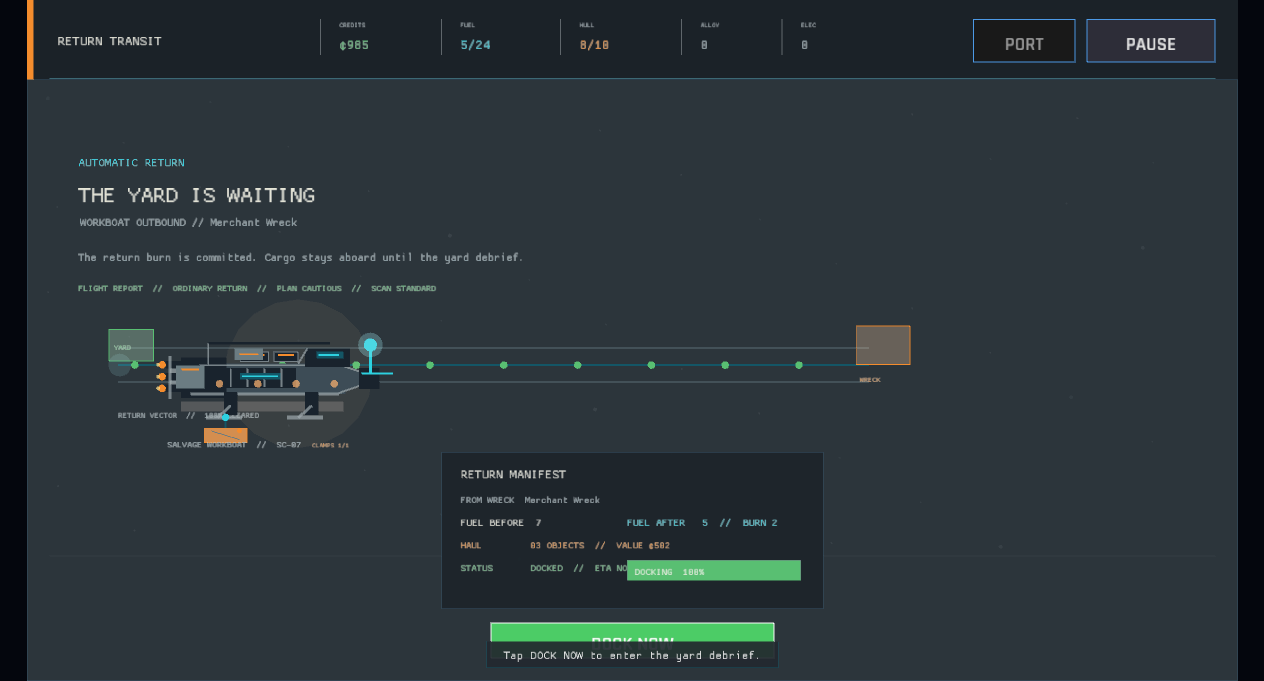
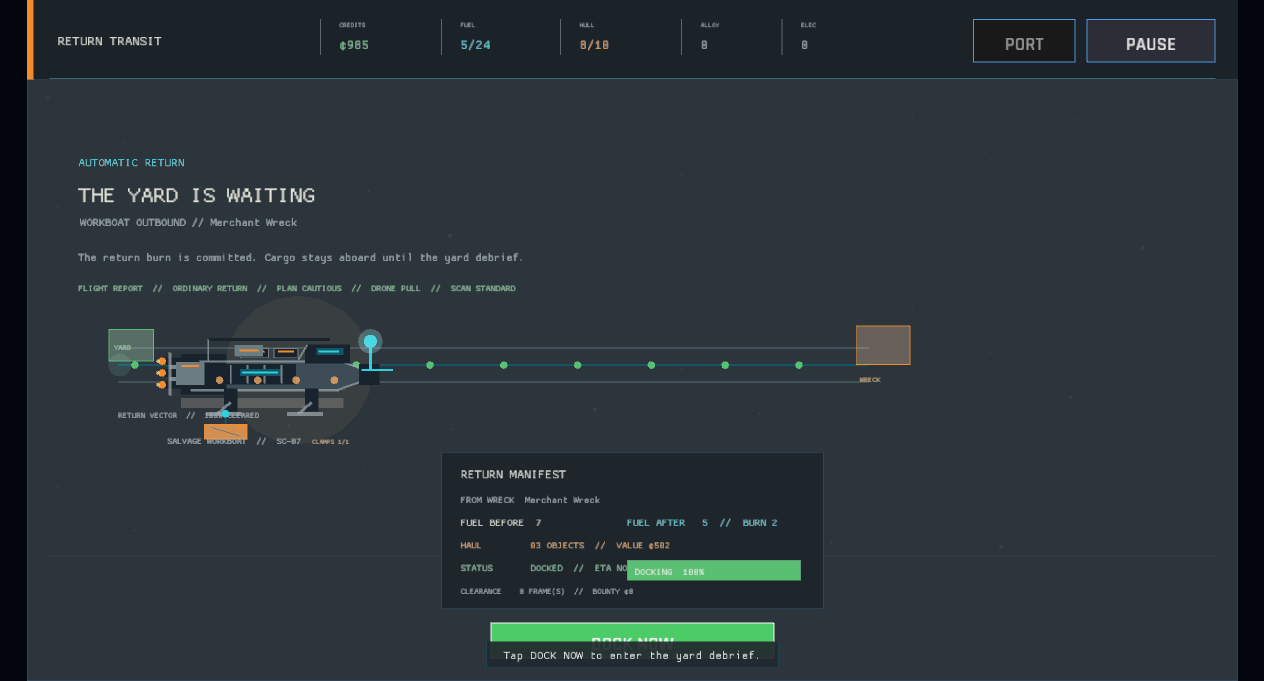
The logbook remembers which ghost-guidance carried each haul home (drone order voyage records)
Completed voyages now retain the selected drone directive alongside the scan, route, and return telemetry. The return report, debrief, and archive expose that order so later runs can be compared by field method as well as haul value.

Changed region(s): [[0.1234, 0.4626, 0.3085, 0.6784], [0.3703, 0.8634, 0.4937, 0.8943], [0.3085, 0.4009, 0.4011, 0.4317]]

diff --git a/src/game/capture.rs b/src/game/capture.rs
@@ -67,6 +67,7 @@ impl Game {
                         contract_completed: true,
                         contract_failed: false,
                         scan_profile: WorkspaceScanProfile::Standard,
+                        drone_directive: crate::state::DroneDirective::PullSupport,
                         condition_after: 74,
                         cleared_sections: Vec::new(),
                         clearance_payout: 0,
@@ -90,6 +91,7 @@ impl Game {
                         contract_completed: false,
                         contract_failed: false,
                         scan_profile: WorkspaceScanProfile::Array,
+                        drone_directive: crate::state::DroneDirective::PullSupport,
                         condition_after: 48,
                         cleared_sections: Vec::new(),
                         clearance_payout: 0,
@@ -113,6 +115,7 @@ impl Game {
                         contract_completed: true,
                         contract_failed: false,
                         scan_profile: WorkspaceScanProfile::Array,
+                        drone_directive: crate::state::DroneDirective::PullSupport,
                         condition_after: 68,
                         cleared_sections: Vec::new(),
                         clearance_payout: 0,
@@ -136,6 +139,7 @@ impl Game {
                         contract_completed: false,
                         contract_failed: true,
                         scan_profile: WorkspaceScanProfile::Standard,
+                        drone_directive: crate::state::DroneDirective::PullSupport,
                         condition_after: 60,
                         cleared_sections: Vec::new(),
                         clearance_payout: 0,
@@ -159,6 +163,7 @@ impl Game {
                         contract_completed: true,
                         contract_failed: false,
                         scan_profile: WorkspaceScanProfile::Array,
+                        drone_directive: crate::state::DroneDirective::PullSupport,
                         condition_after: 42,
                         cleared_sections: Vec::new(),
                         clearance_payout: 0,
@@ -182,6 +187,7 @@ impl Game {
                         contract_completed: false,
                         contract_failed: false,
                         scan_profile: WorkspaceScanProfile::Standard,
+                        drone_directive: crate::state::DroneDirective::PullSupport,
                         condition_after: 51,
                         cleared_sections: Vec::new(),
                         clearance_payout: 0,
@@ -205,6 +211,7 @@ impl Game {
                         contract_completed: true,
                         contract_failed: false,
                         scan_profile: WorkspaceScanProfile::Array,
+                        drone_directive: crate::state::DroneDirective::PullSupport,
                         condition_after: 53,
                         cleared_sections: Vec::new(),
                         clearance_payout: 0,
@@ -291,6 +298,7 @@ impl Game {
                     contract_completed: true,
                     contract_failed: false,
                     scan_profile: WorkspaceScanProfile::Array,
+                    drone_directive: crate::state::DroneDirective::PullSupport,
                     condition_after: 64,
                     cleared_sections: vec!["cargo_bay".to_owned()],
                     clearance_payout: 140,

diff --git a/src/state/ledger/tests.rs b/src/state/ledger/tests.rs
@@ -45,6 +45,7 @@ fn completed_voyage_records_returned_value_and_outcome() {
         true,
         false,
         WorkspaceScanProfile::Array,
+        crate::state::DroneDirective::Survey,
         64,
         2,
         &[],
@@ -72,6 +73,7 @@ fn completed_voyage_records_returned_value_and_outcome() {
     assert!(record.contract_completed);
     assert!(!record.contract_failed);
     assert_eq!(record.scan_profile, WorkspaceScanProfile::Array);
+    assert_eq!(record.drone_directive, crate::state::DroneDirective::Survey);
     assert_eq!(record.condition_after, 64);
     assert_eq!(record.return_fuel, 2);
 }
@@ -146,6 +148,7 @@ fn save_rejects_impossible_voyage_log_entries() {
         contract_completed: false,
         contract_failed: false,
         scan_profile: WorkspaceScanProfile::Standard,
+        drone_directive: crate::state::DroneDirective::PullSupport,
         condition_after: 80,
         cleared_sections: Vec::new(),
         clearance_payout: 0,
@@ -178,6 +181,7 @@ fn save_rejects_uninsured_claim_records() {
         contract_completed: false,
         contract_failed: false,
         scan_profile: WorkspaceScanProfile::Standard,
+        drone_directive: crate::state::DroneDirective::PullSupport,
         condition_after: 80,
         cleared_sections: Vec::new(),
         clearance_payout: 0,

diff --git a/src/ui/decision_panel.rs b/src/ui/decision_panel.rs
@@ -2,7 +2,7 @@
 
 use super::*;
 use crate::state::workspace::TransferMode;
-use crate::state::{VoyageRecord, WorkspaceScanProfile};
+use crate::state::{DroneDirective, VoyageRecord, WorkspaceScanProfile};
 use crate::ui::ship_visual;
 use crate::ui::visual_theme;
 
@@ -83,6 +83,7 @@ fn draw_debrief(ctx: &UiContext<'_>) {
                     &site_name.to_uppercase(),
                     scan_profile,
                     record.voyage_plan,
+                    record.drone_directive,
                     record.reconnaissance_level,
                     record.return_fuel,
                 ),
@@ -230,15 +231,17 @@ fn debrief_run_label(
     site_name: &str,
     scan_profile: WorkspaceScanProfile,
     voyage_plan: crate::engine::VoyagePlan,
+    drone_directive: DroneDirective,
     reconnaissance_level: u8,
     return_fuel: i32,
 ) -> String {
     format!(
-        "RUN {}  //  PLAN {}  //  {}  //  {}  //  SCAN {}  //  RETURN {} FUEL",
+        "RUN {}  //  PLAN {}  //  {}  //  {}  //  DRONE {}  //  SCAN {}  //  RETURN {} FUEL",
         run_number,
         voyage_plan.label(),
         debrief_intelligence_label(reconnaissance_level),
         site_name,
+        drone_directive.short_label(),
         scan_profile.short_label(),
         return_fuel
     )

diff --git a/src/ui/decision_panel/tests.rs b/src/ui/decision_panel/tests.rs
@@ -7,6 +7,7 @@ fn debrief_run_label_keeps_survey_memory_visible() {
         "MERCHANT WRECK",
         WorkspaceScanProfile::Array,
         crate::engine::VoyagePlan::Standard,
+        crate::state::DroneDirective::Survey,
         2,
         2,
     );
@@ -22,7 +23,8 @@ fn debrief_run_label_keeps_survey_memory_visible() {
         1,
         140,
     );
-    assert!(label.contains("MERCHANT WRECK  //  SCAN ARRAY"));
+    assert!(label.contains("MERCHANT WRECK  //  DRONE SURVEY  //  SCAN ARRAY"));
+    assert!(label.contains("DRONE SURVEY"));
     assert!(label.contains("RUN 2  //  PLAN STANDARD  //  INTEL L2  //  MERCHANT WRECK"));
     assert!(label.ends_with("SCAN ARRAY  //  RETURN 2 FUEL"));
     assert!(memory_label.starts_with("BP 05/09  //  STAND TRUSTED SALVOR // REP 4/7"));
@@ -69,6 +71,7 @@ fn debrief_names_section_clearance_as_a_separate_settlement() {
         contract_completed: false,
         contract_failed: false,
         scan_profile: WorkspaceScanProfile::Standard,
+        drone_directive: crate::state::DroneDirective::PullSupport,
         condition_after: 64,
         cleared_sections: vec!["cargo_bay".to_owned()],
         clearance_payout: 140,

diff --git a/src/ui/voyage_archive.rs b/src/ui/voyage_archive.rs
@@ -259,8 +259,9 @@ fn draw_archive_row(ctx: &UiContext<'_>, row: Rect, record: &VoyageRecord, run_n
     );
     draw_text(
         &format!(
-            "{}  //  SCAN {}  //  RECOV {} TARGET(S)  //  ¢{}  //  EXT {}  //  {}  //  {}  //  {}  //  {}  //  {}  //  {}",
+            "{}  //  {}  //  SCAN {}  //  RECOV {} TARGET(S)  //  ¢{}  //  EXT {}  //  {}  //  {}  //  {}  //  {}  //  {}  //  {}",
             archive_contract_label(record),
+            archive_drone_label(record),
             record.scan_profile.short_label(),
             record.recovered_count,
             record.recovered_value,
@@ -361,6 +362,10 @@ fn archive_material_label(record: &VoyageRecord) -> String {
 
 fn archive_plan_label(record: &VoyageRecord) -> String {
     format!("PLAN {}", record.voyage_plan.label())
+}
+
+fn archive_drone_label(record: &VoyageRecord) -> String {
+    format!("DRONE {}", record.drone_directive.short_label())
 }
 
 fn archive_intelligence_label(record: &VoyageRecord) -> String {

diff --git a/src/state/ledger.rs b/src/state/ledger.rs
@@ -1,6 +1,6 @@
 //! Persistent voyage records that make each completed haul part of the ship's history.
 
-use super::{GameSession, VoyageRecord, WorkspaceScanProfile};
+use super::{DroneDirective, GameSession, VoyageRecord, WorkspaceScanProfile};
 use crate::data::GameData;
 use crate::engine::{market, RiskResult, VoyagePlan};
 
@@ -19,6 +19,7 @@ impl GameSession {
         contract_completed: bool,
         contract_failed: bool,
         scan_profile: WorkspaceScanProfile,
+        drone_directive: DroneDirective,
         condition_after: i32,
         return_fuel: i32,
         cleared_sections: &[String],
@@ -58,6 +59,7 @@ impl GameSession {
             contract_completed,
             contract_failed,
             scan_profile,
+            drone_directive,
             condition_after,
             cleared_sections: cleared_sections.to_vec(),
             clearance_payout,

diff --git a/src/ui/voyage_archive/tests.rs b/src/ui/voyage_archive/tests.rs
@@ -16,6 +16,7 @@ fn record(outcome: RiskOutcome, recovered_count: u32, recovered_value: i64) -> V
         contract_completed: true,
         contract_failed: false,
         scan_profile: WorkspaceScanProfile::Standard,
+        drone_directive: crate::state::DroneDirective::PullSupport,
         condition_after: 80,
         cleared_sections: Vec::new(),
         clearance_payout: 0,
@@ -115,6 +116,14 @@ fn archive_entry_names_the_operating_plan() {
     let voyage = record(RiskOutcome::OrdinaryReturn, 2, 250);
 
     assert_eq!(archive_plan_label(&voyage), "PLAN STANDARD");
+}
+
+#[test]
+fn archive_entry_names_the_drone_order() {
+    let mut voyage = record(RiskOutcome::OrdinaryReturn, 2, 250);
+    voyage.drone_directive = crate::state::DroneDirective::Survey;
+
+    assert_eq!(archive_drone_label(&voyage), "DRONE SURVEY");
 }
 
 #[test]

diff --git a/src/ui/return_travel.rs b/src/ui/return_travel.rs
@@ -64,9 +64,10 @@ pub fn draw_return_travel(ctx: &UiContext<'_>, actions: &mut Vec<UiAction>) {
     if let Some(record) = record {
         draw_text(
             format!(
-                "FLIGHT REPORT  //  {}  //  PLAN {}  //  SCAN {}",
+                "FLIGHT REPORT  //  {}  //  PLAN {}  //  DRONE {}  //  SCAN {}",
                 risk_label(record.risk_outcome),
                 record.voyage_plan.label(),
+                record.drone_directive.short_label(),
                 record.scan_profile.short_label()
             ),
             54.0,

diff --git a/src/ui/return_travel/tests.rs b/src/ui/return_travel/tests.rs
@@ -39,6 +39,7 @@ fn record_with_value(recovered_value: i64) -> crate::state::VoyageRecord {
         contract_completed: false,
         contract_failed: false,
         scan_profile: crate::state::WorkspaceScanProfile::Standard,
+        drone_directive: crate::state::DroneDirective::PullSupport,
         condition_after: 80,
         cleared_sections: Vec::new(),
         clearance_payout: 0,

diff --git a/src/ui/site_cards/tests.rs b/src/ui/site_cards/tests.rs
@@ -40,6 +40,7 @@ fn mission_briefing_keeps_blueprints_on_completed_last_run_line() {
         contract_completed: true,
         contract_failed: false,
         scan_profile: WorkspaceScanProfile::Standard,
+        drone_directive: crate::state::DroneDirective::PullSupport,
         condition_after: 80,
         cleared_sections: Vec::new(),
         clearance_payout: 0,

diff --git a/src/state.rs b/src/state.rs
@@ -150,6 +150,8 @@ pub struct VoyageRecord {
     pub contract_failed: bool,
     #[serde(default)]
     pub scan_profile: WorkspaceScanProfile,
+    #[serde(default)]
+    pub drone_directive: DroneDirective,
     pub condition_after: i32,
     #[serde(default)]
     pub cleared_sections: Vec<String>,

diff --git a/src/state/salvage_packing.rs b/src/state/salvage_packing.rs
@@ -194,6 +194,7 @@ impl GameSession {
             contract_completed,
             contract_failed,
             scan_profile,
+            expedition.drone_directive,
             condition_after,
             return_fuel,
             &clearance.section_ids,
